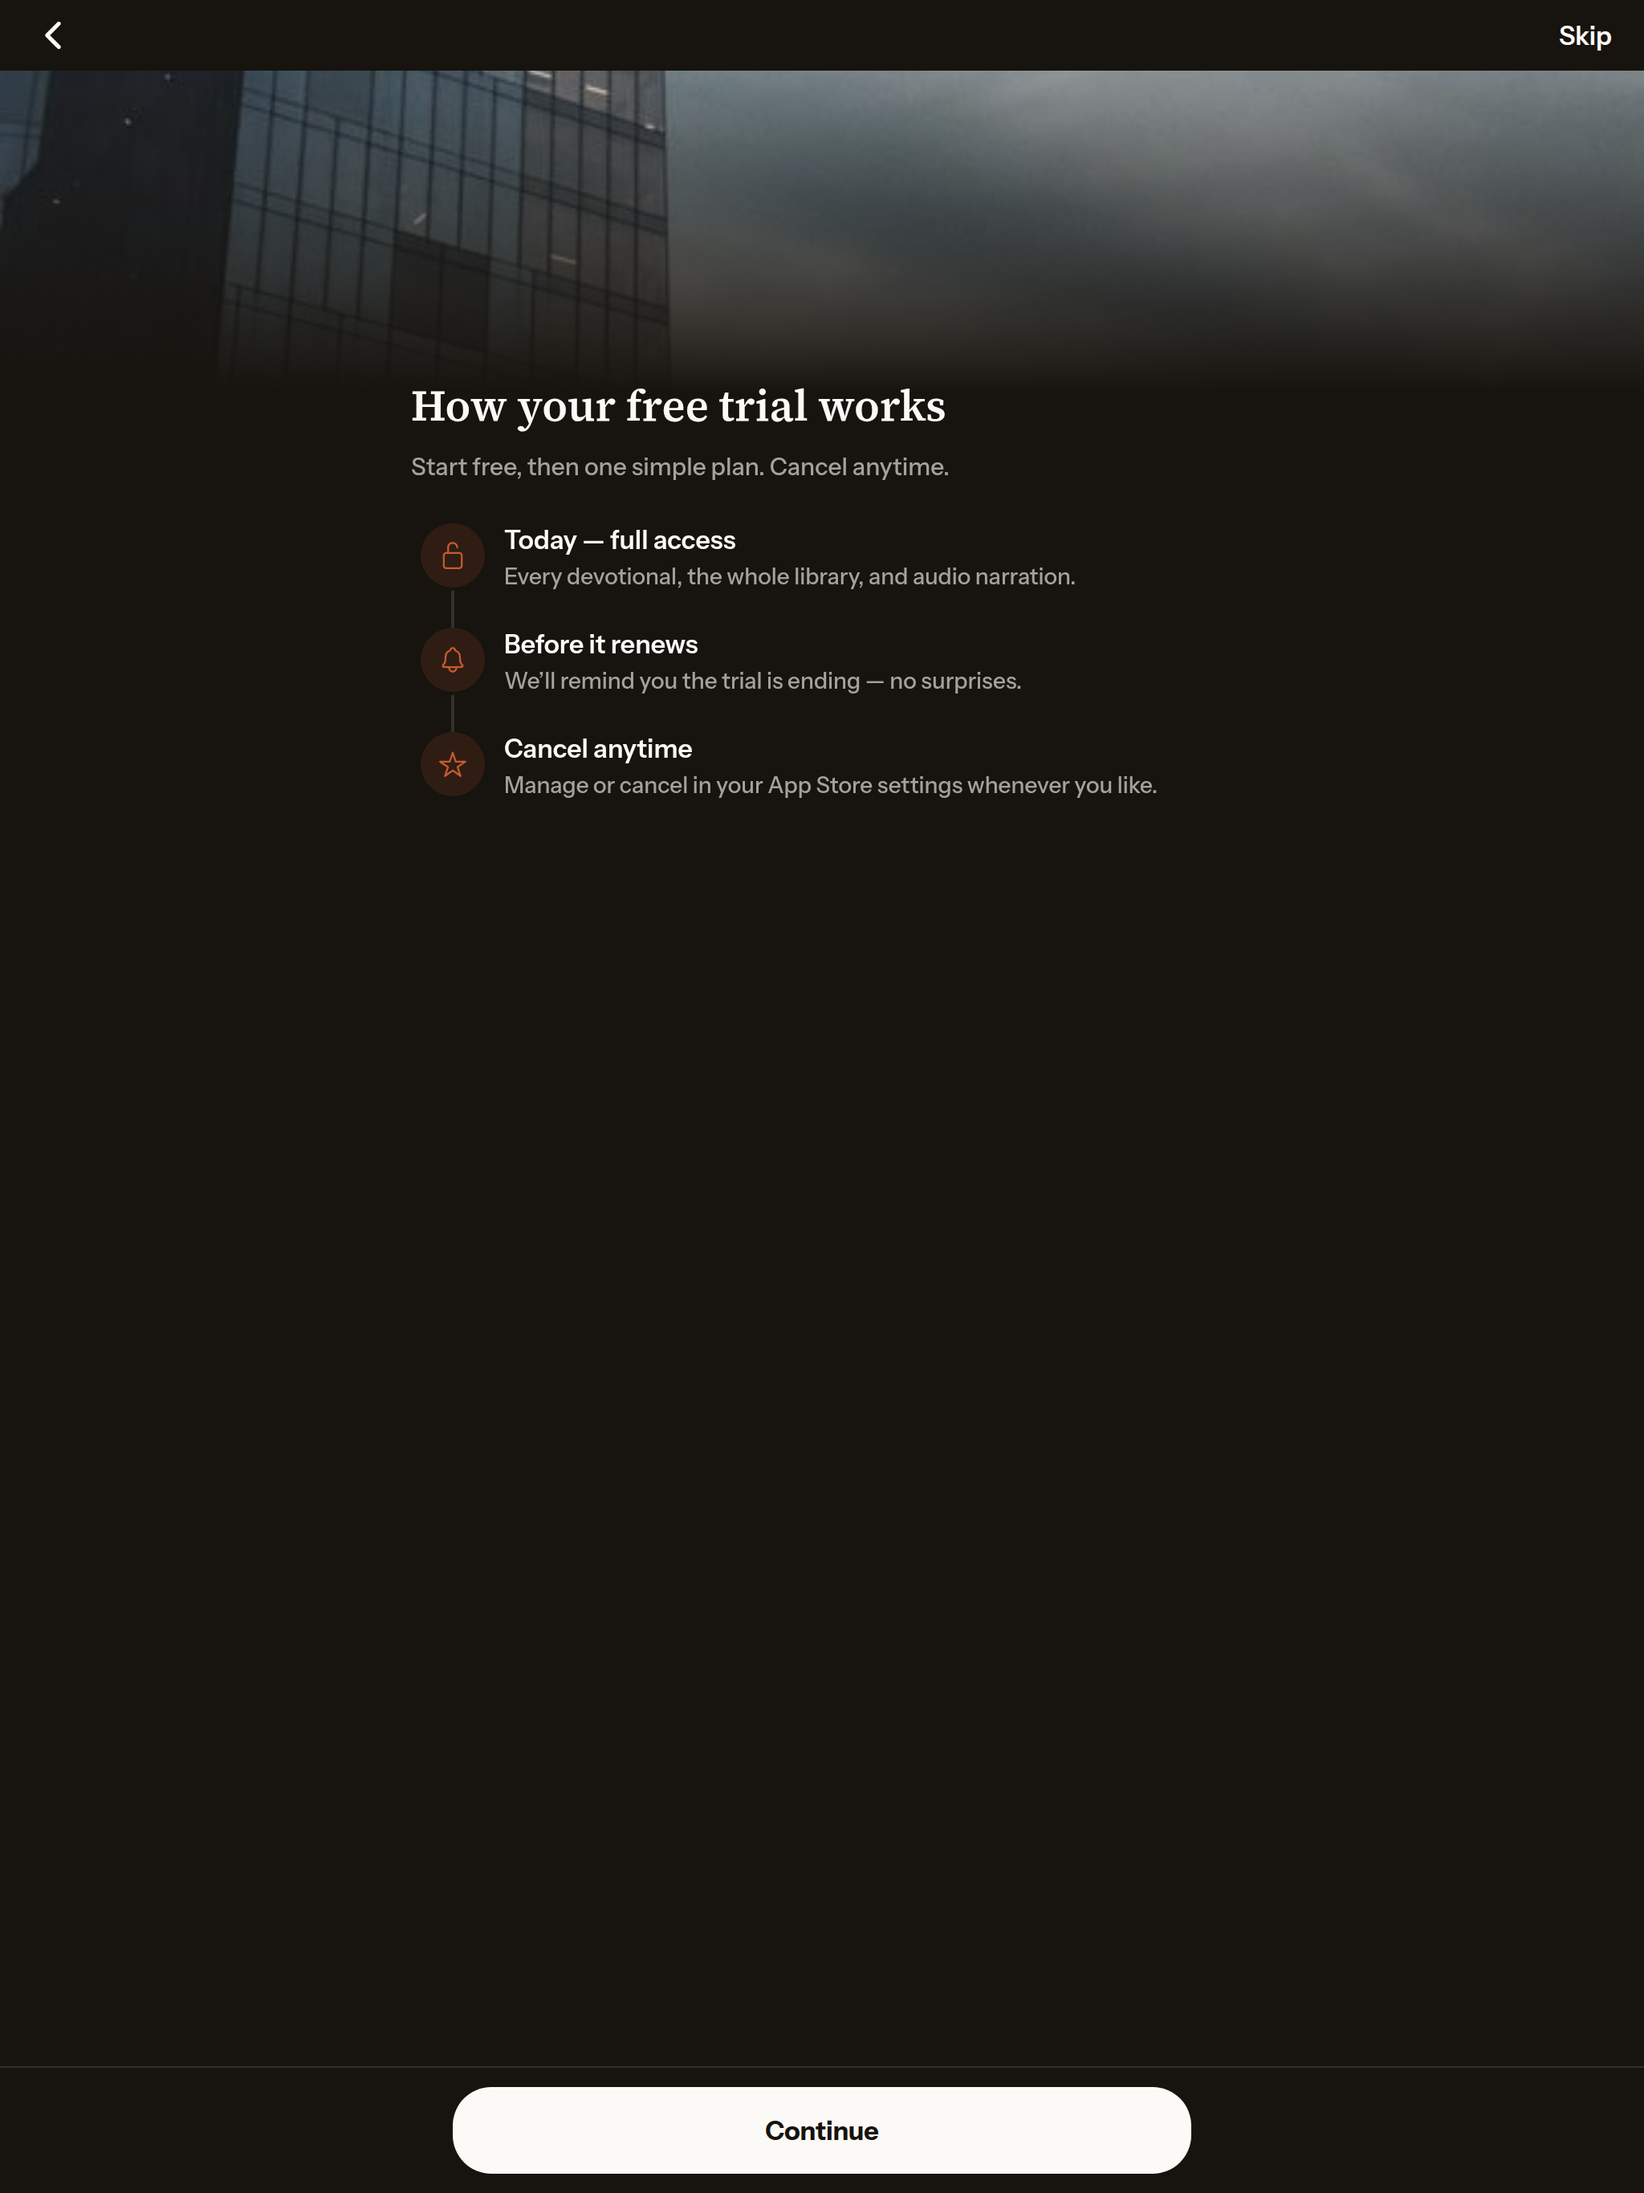
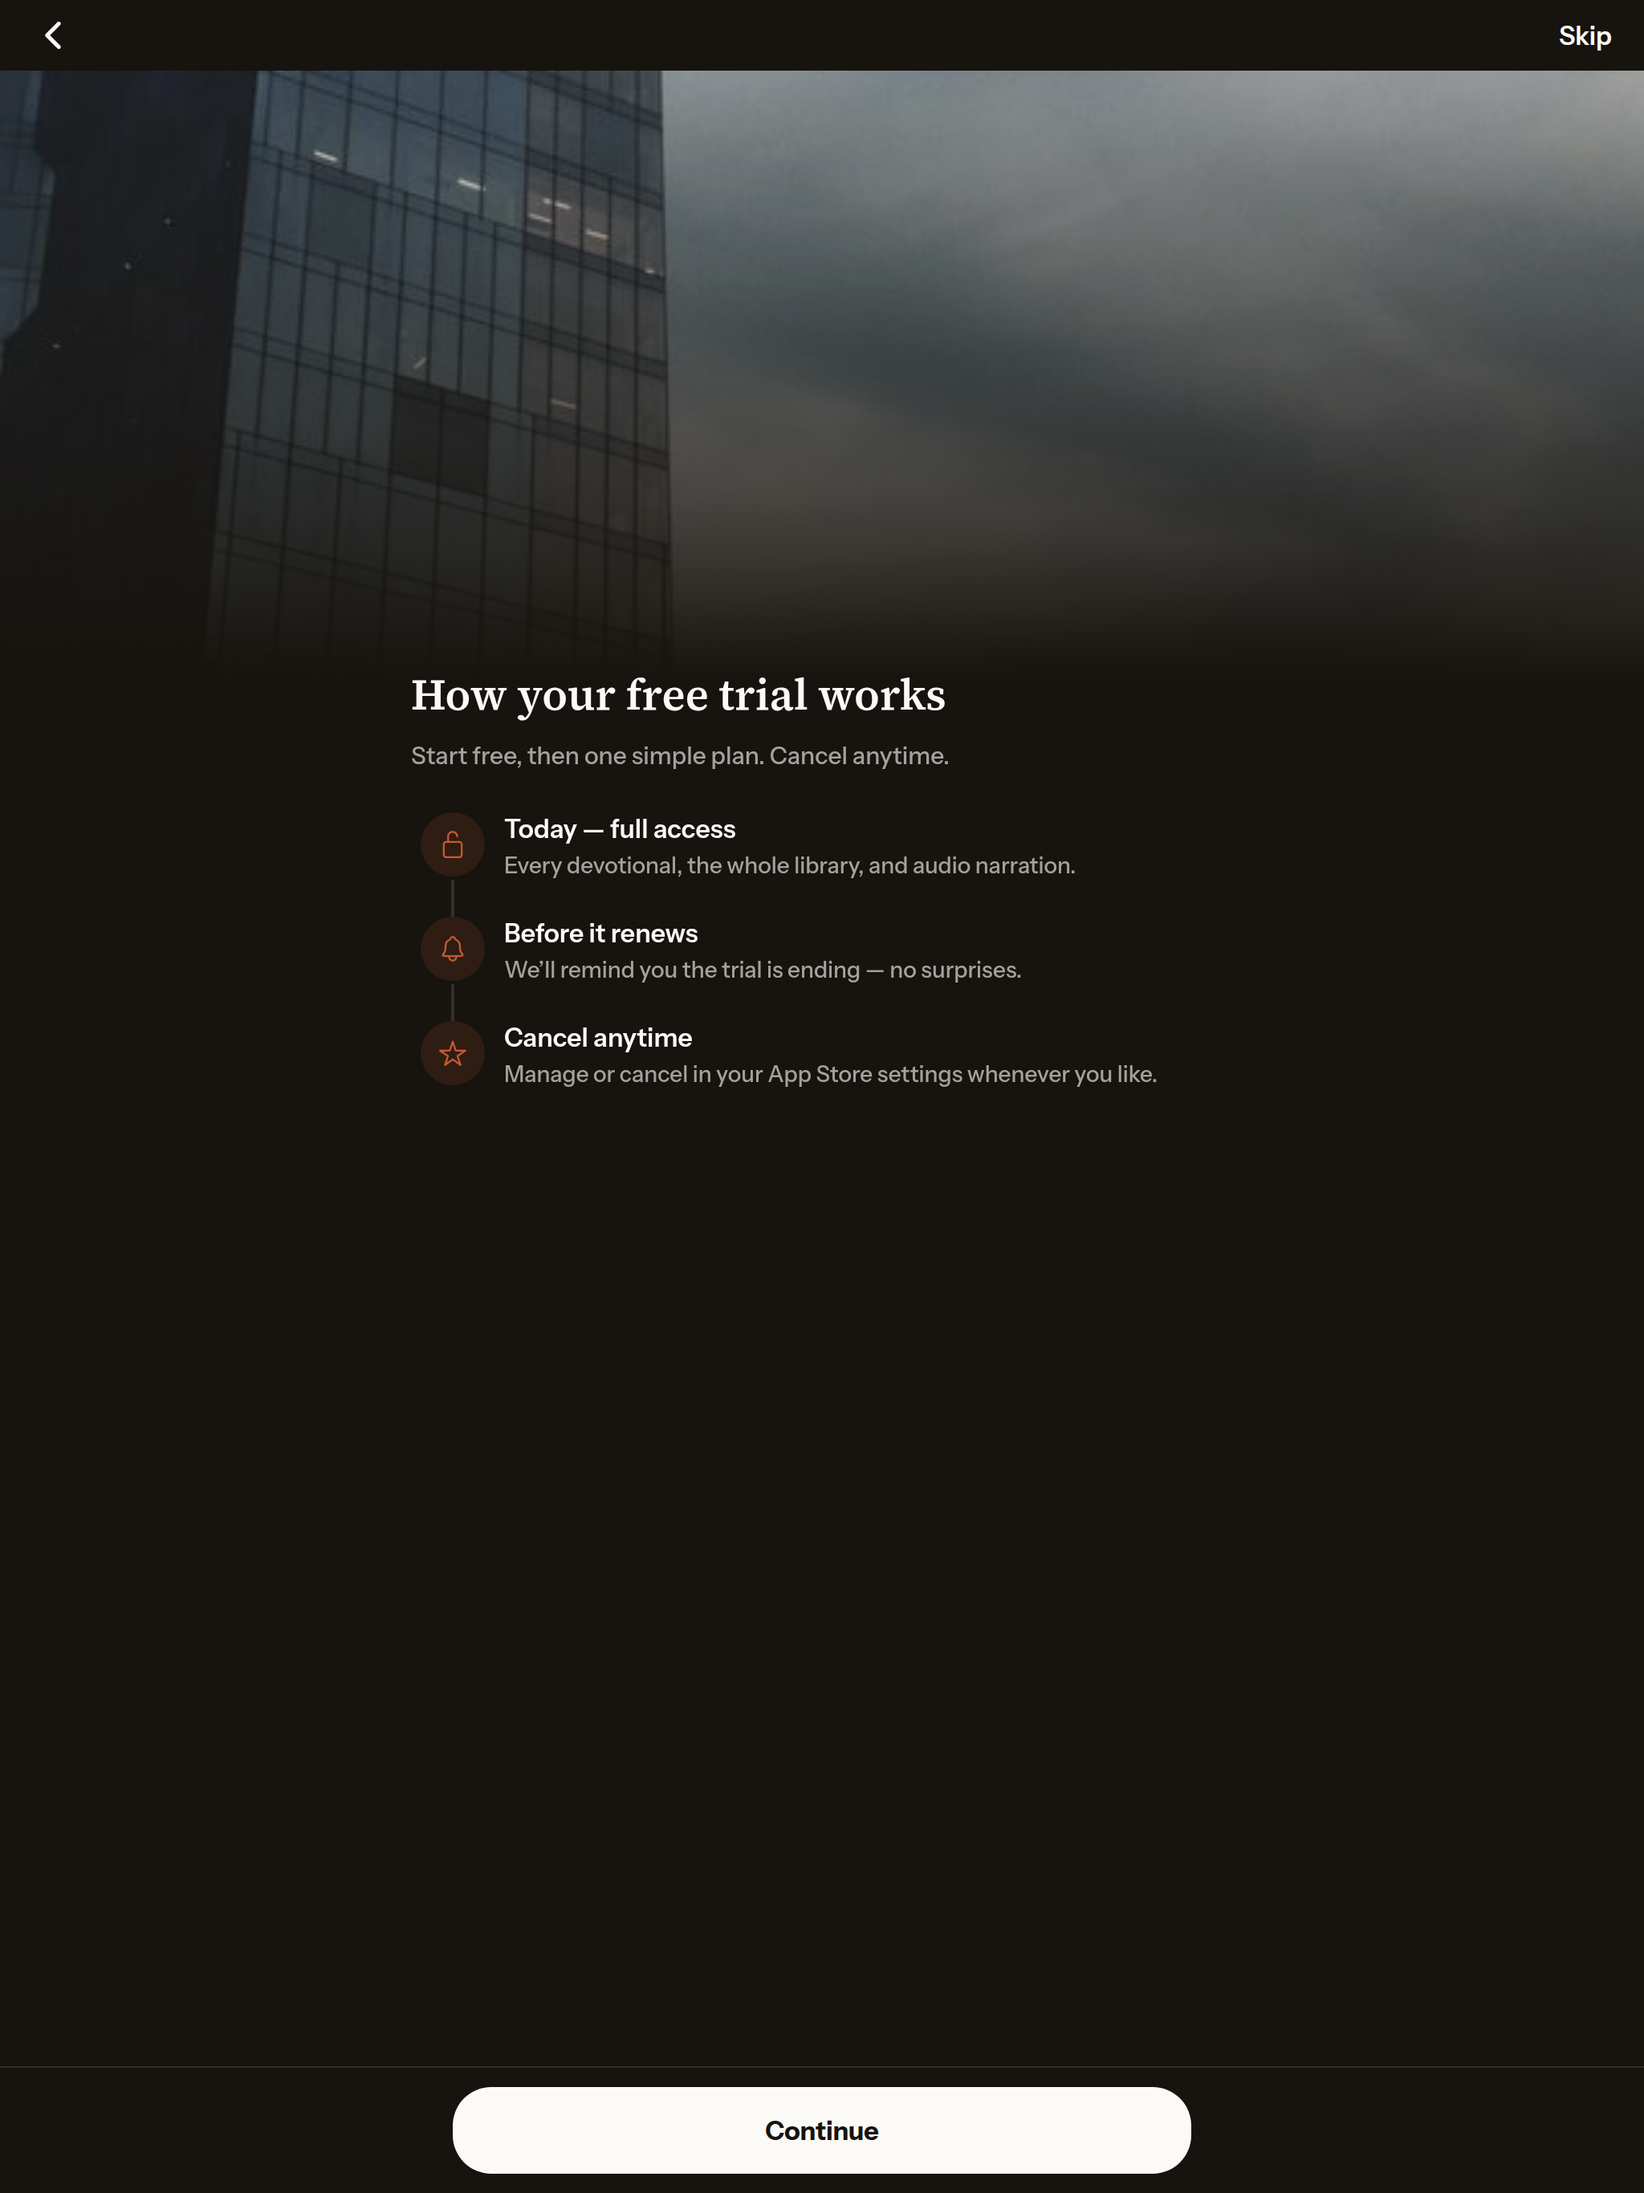
iPad onboarding: vertically center sparse steps, taller trial hero
The minimal steps (rhythm, reminder, account, ready) stranded their
content at the top with the CTA far below on tall iPad screens. On wide,
collapse the flex spacers and center the block vertically; enlarge the
trial hero. Welcome stays bottom-anchored over its photo. Regenerated the
screenshot set.

Claude-Session: https://claude.ai/code/session_012SGEANTZ4jJ9KhsrAkbPoC

diff --git a/app/onboarding.tsx b/app/onboarding.tsx
@@ -172,8 +172,8 @@ export default function Onboarding() {
       <TopBar />
 
       {step === 'welcome' && (
-        <View style={[styles.welcomeWrap, wide && styles.centerWrapWide]}>
-          <View style={{ flex: 1 }} />
+        <View style={[styles.welcomeWrap, wide && styles.welcomeWrapWide]}>
+          <View style={styles.grow} />
           <Text style={styles.wordmark}>FOUNDED</Text>
           <Text style={styles.verse}>“Be still, and know that I am God.”</Text>
           <Text style={styles.verseRef}>PSALM 46:10</Text>
@@ -258,7 +258,7 @@ export default function Onboarding() {
           <Feature icon="sunny-outline" title="A daily devotional" body="A short, steadying word on faith and work, waiting each day." />
           <Feature icon="library-outline" title="A library for the real moments" body="Payroll, a hard client, a launch, letting someone go — search what you’re in." />
           <Feature icon="headset-outline" title="Listen to any reading" body="Narrated, for the drive or the walk before the team arrives." />
-          <View style={{ flex: 1 }} />
+          <View style={wide ? undefined : styles.grow} />
           <Primary label="Continue" onPress={advance} />
           <View style={{ height: insets.bottom + 8 }} />
         </View>
@@ -289,7 +289,7 @@ export default function Onboarding() {
               {rhythm === o.key && <Ionicons name="checkmark-circle" size={22} color={C.accent} />}
             </Pressable>
           ))}
-          <View style={{ flex: 1 }} />
+          <View style={wide ? undefined : styles.grow} />
           <Primary label="Continue" onPress={advance} />
           <View style={{ height: insets.bottom + 8 }} />
         </View>
@@ -323,7 +323,7 @@ export default function Onboarding() {
               );
             })}
           </View>
-          <View style={{ flex: 1 }} />
+          <View style={wide ? undefined : styles.grow} />
           <Primary label={`Turn on reminders · ${formatTime(time.hour, time.minute)}`} onPress={enableReminder} />
           <Pressable onPress={advance} hitSlop={8} style={{ marginTop: 14, alignSelf: 'center' }}>
             <Text style={styles.textLink}>Not now</Text>
@@ -339,7 +339,7 @@ export default function Onboarding() {
             contentContainerStyle={{ paddingBottom: insets.bottom + 130 }}
             showsVerticalScrollIndicator={false}
           >
-            <ImageBackground source={coverFor(firstId)} style={styles.trialHero} resizeMode="cover">
+            <ImageBackground source={coverFor(firstId)} style={[styles.trialHero, wide && { height: 380 }]} resizeMode="cover">
               <LinearGradient
                 colors={['rgba(23,19,14,0.15)', 'rgba(23,19,14,0.65)', C.bg]}
                 locations={[0, 0.6, 1]}
@@ -377,7 +377,7 @@ export default function Onboarding() {
             new phone or iPad. Founded stores nothing but an anonymous Apple ID —
             no email list, no password.
           </Text>
-          <View style={{ flex: 1 }} />
+          <View style={wide ? undefined : styles.grow} />
           <AppleSignInButton variant="dark" onSignedIn={advance} />
           <Pressable onPress={advance} hitSlop={8} style={{ marginTop: 16, alignSelf: 'center' }}>
             <Text style={styles.textLink}>Maybe later</Text>
@@ -389,7 +389,7 @@ export default function Onboarding() {
       {/* READY — drop into the first reading */}
       {step === 'ready' && (
         <View style={[styles.centerWrap, wide && styles.centerWrapWide]}>
-          <View style={{ flex: 1 }} />
+          <View style={wide ? undefined : styles.grow} />
           <View style={styles.readyCard}>
             <ImageBackground
               source={coverFor(firstId)}
@@ -414,7 +414,7 @@ export default function Onboarding() {
               ? 'Chosen for what you said you’re carrying.'
               : 'Today’s devotional, ready for you.'}
           </Text>
-          <View style={{ flex: 1 }} />
+          <View style={wide ? undefined : styles.grow} />
           <Primary label="Start reading" onPress={() => finish(true)} />
           <Pressable onPress={() => finish(false)} hitSlop={8} style={{ marginTop: 14, alignSelf: 'center' }}>
             <Text style={styles.textLink}>Maybe later</Text>
@@ -534,7 +534,11 @@ const styles = StyleSheet.create({
 
   // Generic layout
   centerWrap: { flex: 1, paddingHorizontal: 24, paddingTop: 8 },
-  centerWrapWide: { maxWidth: 560, width: '100%', alignSelf: 'center' },
+  // On wide screens the spacers collapse, so center the whole block vertically
+  // instead of stranding content at the top with the button far below.
+  centerWrapWide: { maxWidth: 560, width: '100%', alignSelf: 'center', justifyContent: 'center' },
+  welcomeWrapWide: { maxWidth: 560, width: '100%', alignSelf: 'center' },
+  grow: { flex: 1 },
   h1: {
     fontFamily: fonts.display,
     fontSize: 27,
